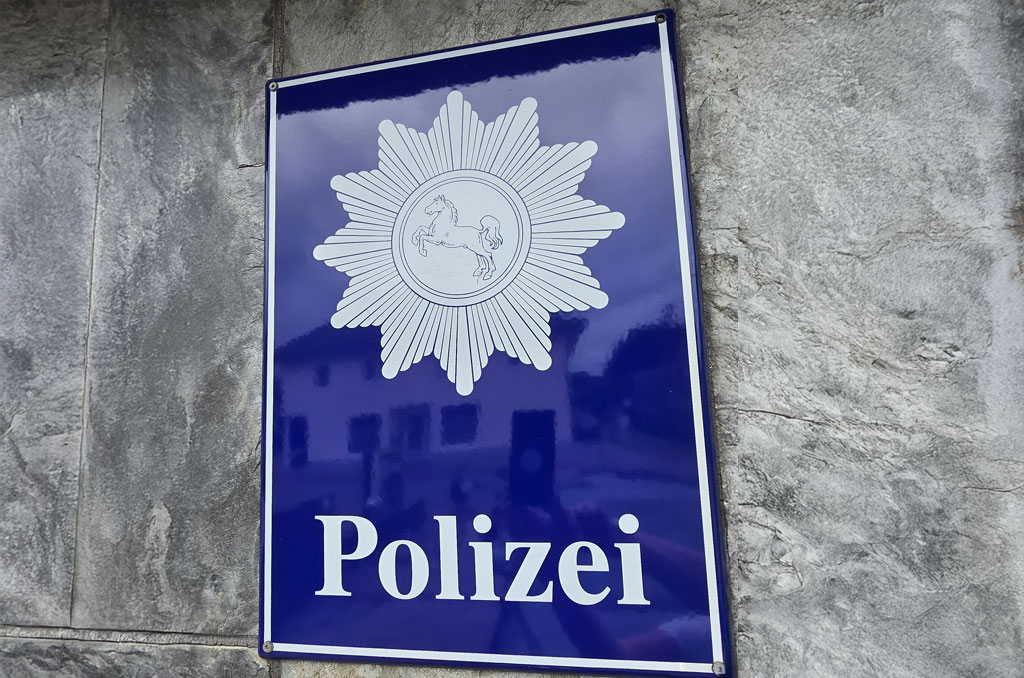
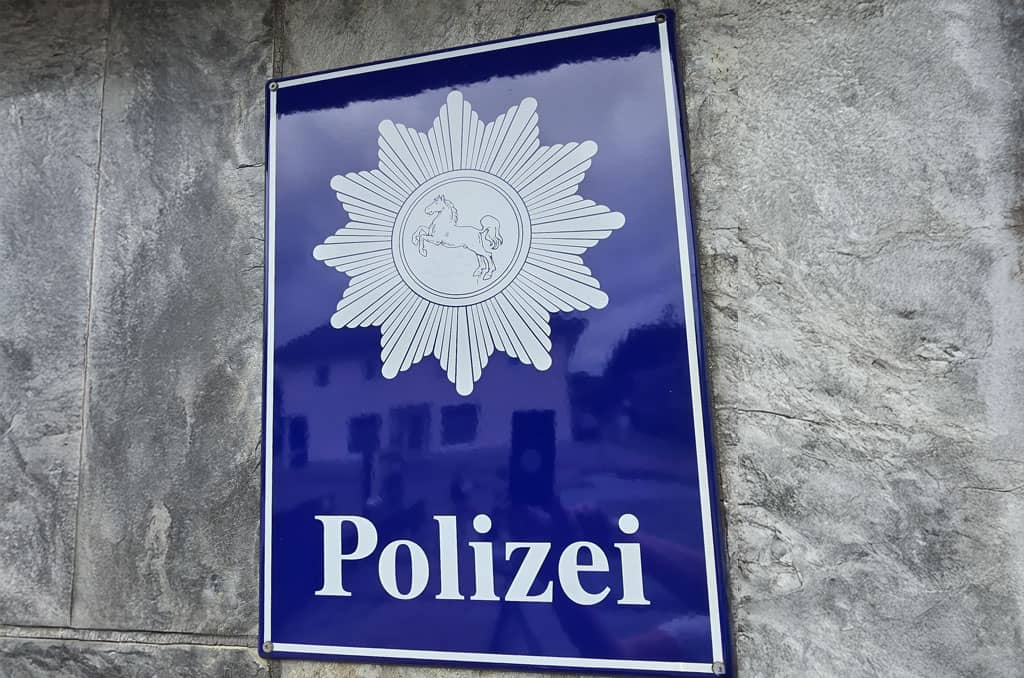
feat: added webp versions

diff --git a/src/components/RallyStationTemplate.tsx b/src/components/RallyStationTemplate.tsx
@@ -25,16 +25,22 @@ export default function RallyStationTemplate({
   textBlocks,
   question,
 }: RallyStationTemplateProps) {
+  // WebP Pfad erstellen (JPG durch WebP ersetzen)
+  const webpPath = imagePath.replace('.jpg', '.webp')
+
   const content = (
     <div className='space-y-6'>
       <div className='w-full'>
-        <Image
-          src={imagePath}
-          alt={stationName}
-          width={1024}
-          height={678}
-          className='w-full rounded-lg shadow-lg'
-        />
+        <picture>
+          <source srcSet={webpPath} type='image/webp' />
+          <Image
+            src={imagePath}
+            alt={stationName}
+            width={1024}
+            height={678}
+            className='w-full rounded-lg shadow-lg'
+          />
+        </picture>
       </div>
       {textBlocks.map((block, index) => (
         <p key={index} className={block.className || 'font-bold text-gray-700'}>
